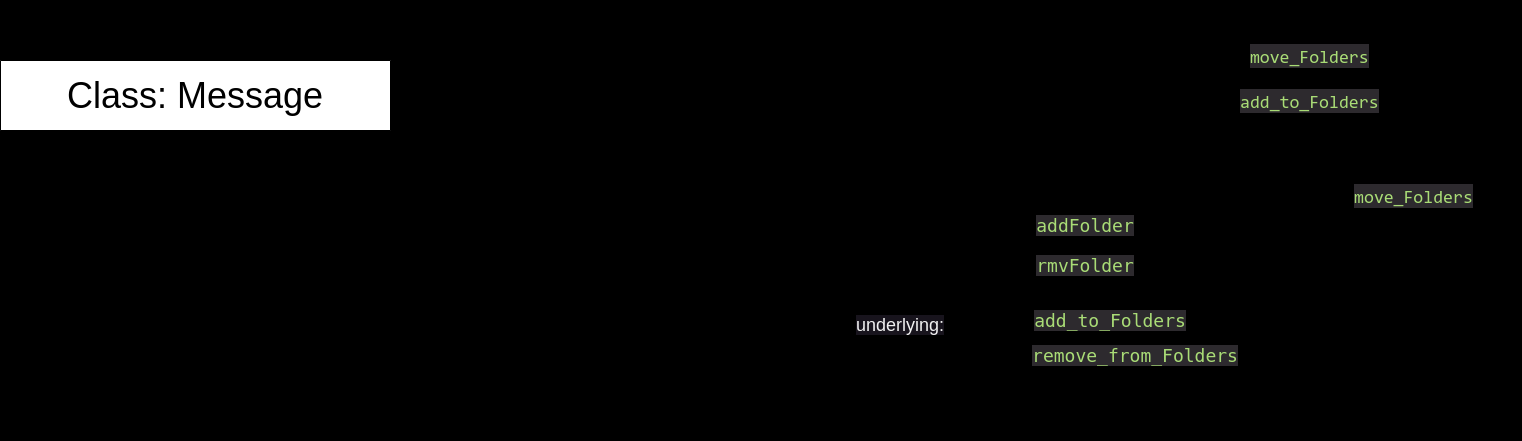
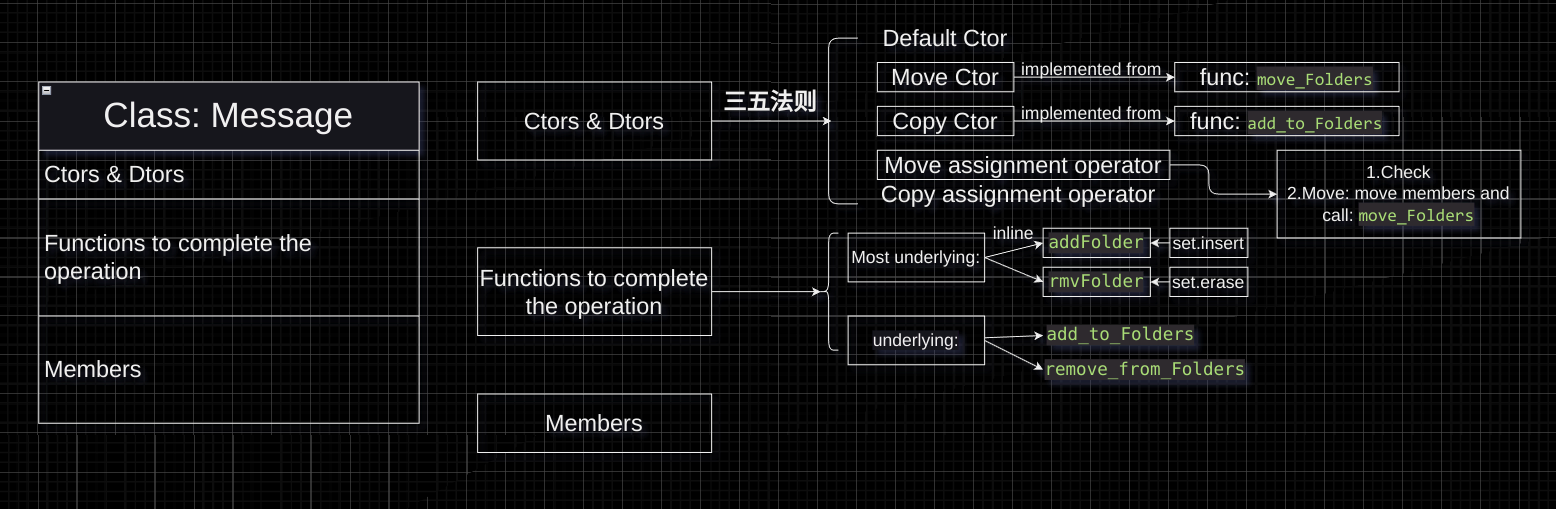
Good Morning

diff --git a/chapter13_CopyControl/Approaches/Folder.cc b/chapter13_CopyControl/Approaches/Folder.cc
@@ -1,0 +1,118 @@
+#include <iostream>
+#include "Folder.h"
+
+void Message::save(Folder &fd) {
+    folders.insert(&fd);
+    fd.addMsg(this);
+}
+
+void Message::remove(Folder &fd) {
+    folders.erase(&fd);
+    fd.rmvMsg(this);
+}
+
+// 底层添加元素函数
+void Message::add_to_Folders(const Message &ms) {
+    for(auto x : ms.folders)
+        x->addMsg(this);
+}
+
+// 底层清空函数
+void Message::remove_from_Folders() {
+    // set可能抛出异常
+    for(auto x : folders)
+        x->rmvMsg(this);
+    folders.clear();
+}
+
+// 不光要给自己成员赋值，同时也需要向Folder中添加成员
+Message::Message(const Message &rhs) :
+        content(rhs.content), folders(rhs.folders) {
+    add_to_Folders(rhs);
+}
+
+Message::~Message() {
+    remove_from_Folders();
+}
+
+// 移动操作的核心
+// Message成员函数:移动自身folders
+void Message::move_Folders(Message *msg) {
+    folders = std::move(msg->folders);
+
+    // 此操作可能抛出异常:bad_alloc
+    for(auto x : folders) {
+        x->rmvMsg(msg);
+        x->addMsg(this);
+    }
+    msg->folders.clear();
+}
+
+Message& Message::operator=(const Message &rhs) {
+    remove_from_Folders(); // clear this folder
+    content = rhs.content; // copy members
+    folders = rhs.folders;
+    add_to_Folders(rhs); // add to Folder
+    return *this;
+}
+
+// 移动赋值运算符
+Message& Message::operator=(Message &&rhs) {
+    if(this == &rhs) return *this;
+    remove_from_Folders();
+    content = std::move(rhs.content);
+    move_Folders(&rhs);
+    return *this;
+}
+
+// 两Message对象的拷贝交换
+void swap(Message &lhs, Message &rhs) {
+    using std::swap;
+    // 移除对应Folders中的成员数据
+    for(auto x : lhs.folders)
+        x->rmvMsg(&lhs);
+    for(auto x : rhs.folders)
+        x->rmvMsg(&rhs);
+    swap(lhs.folders, rhs.folders);
+    swap(lhs.content, rhs.content);
+    for(auto x : lhs.folders)
+        x->addMsg(&lhs);
+    for(auto x : rhs.folders)
+        x->addMsg(&rhs);
+}
+
+// 同时向两类中的两容器data与folders添加对象
+void Folder::save(Message &ms) {
+    data.insert(&ms);   // data加Message
+    ms.addFolder(this); // folders加Folder
+}
+
+// 同时向两类中的两容器data与folders移除对象
+void Folder::remove(Message &ms) {
+    data.erase(&ms); // data删Message
+    ms.rmvFolder(this); // folders加Folder
+}
+
+void Folder::add_to_Messages(const Folder &fd) {
+    for(auto x : fd.data)
+        x->addFolder(this);
+}
+
+void Folder::remove_from_Messages() {
+    while (!data.empty())
+        (*data.begin())->remove(*this);
+}
+
+Folder::Folder(const Folder &fd) :
+    data(fd.data) { add_to_Messages(fd); }
+
+Folder& Folder::operator=(const Folder &fd) {
+    remove_from_Messages();
+    data = fd.data;
+    add_to_Messages(fd);
+    return *this;
+}
+
+Folder::~Folder() {
+    remove_from_Messages();
+}

diff --git a/chapter13_CopyControl/Approaches/Folder.h b/chapter13_CopyControl/Approaches/Folder.h
@@ -1,0 +1,58 @@
+#ifndef CODESPACE_FOLDER_H
+#define CODESPACE_FOLDER_H
+
+#include <iostream>
+#include <set>
+
+class Message;
+class Folder {
+    friend class Message;
+public:
+    Folder(const Folder&);
+    Folder& operator=(const Folder&);
+    Folder() = default;
+    ~Folder();
+
+    void save(Message&);
+    void remove(Message&);
+
+    // 最基本单元:加inline封装
+    inline void addMsg(Message* ms) { data.insert(ms); }
+    inline void rmvMsg(Message* ms) { data.erase(ms); }
+private:
+    std::set<Message*> data;
+    void add_to_Messages(const Folder&);
+    void remove_from_Messages();
+};
+
+class Folder;
+class Message {
+    friend class Folder;
+    friend inline void swap(Message&, Message&);
+public:
+    explicit Message(const std::string& str = "") : content(str) {}
+    Message(const Message&);
+    Message(Message &&m) : content(std::move(m.content)) {
+        move_Folders(&m);
+    }
+    Message& operator=(const Message&);
+    Message& operator=(Message&&);
+    ~Message();
+
+    void save(Folder&);
+    void remove(Folder&);
+
+    // 最基本单元:加inline封装
+    inline void addFolder(Folder* folder) { folders.insert(folder); }
+    inline void rmvFolder(Folder* folder) { folders.erase(folder); }
+
+    void move_Folders(Message *msg);
+private:
+    std::string content;
+    std::set<Folder*> folders;
+    // 拷贝构造函数,拷贝赋值运算符,析构函数使用的工具函数
+    void add_to_Folders(const Message&);
+    void remove_from_Folders();
+};
+
+#endif //CODESPACE_FOLDER_H

diff --git a/chapter13_CopyControl/Expression&Rvalue.md b/chapter13_CopyControl/Expression&Rvalue.md
@@ -222,3 +222,54 @@ int main() {
 上述情况中，我们自定义了拷贝构造函数，合成移动构造函数被标记为删除，编译器不会生成
 因此，我们在 `move` 时，发生了右值转换成 `const` 左值引用的情况
 
+在移动构造函数中，你需要执行以下操作：
+
+从被移动对象中获取资源的指针或句柄：这可以是指针、文件描述符、动态分配的内存等。
+
+将资源的所有权从被移动对象中转移：你需要将资源的指针或句柄从被移动对象中移除，以确保被移动对象不再拥有资源。
+
+将资源的所有权转移到目标对象：你需要将资源的指针或句柄移动到目标对象中，确保目标对象拥有资源的所有权。
+
+清理被移动对象的状态：你需要在移动构造函数中清理被移动对象的状态，以确保它处于有效但不再拥有资源的状态。这可能包括释放动态分配的内存、关闭文件句柄等操作。
+
+## 移动赋值运算符=
+
+在对象内部重载移动赋值运算符：
+
+```c++
+struct Obj {
+    Obj& operator=(Obj &&rhs) noexcept {
+        if(this == &rhs) return *this;
+        this->str_ = rhs.str_;
+        rhs.str_.clear();
+        return *this;
+    }
+    std::string str_;
+}
+```
+
+之后便可以对两对象之间采用 `a1 = std::move(a2)` 操作。
+此时 `Obj` 的拷贝运算符会被显式删除，除非手动编写拷贝运算符。
+
+## Rules: Three & Five
+
++ 三之法则:`拷贝构造函数`，`拷贝operator`，`析构函数`。不含移动操作
++ 五之法则:三之法则的定义会影响 `移动构造函数` 和 `移动赋值运算符`，所以需要手动为其定义
+
+### Rule of Three
+
+当一个类需要 `用户定义的析构函数` or `用户定义的拷贝构造函数` or `用户定义的拷贝赋值运算符` 其中之一时，
+三者必须同时定义，确保对非成员变量的精确管理
+
+### Rule of Five
+
+在执行 Rule of Three 之后，会影响到 `移动构造函数` 和 `移动赋值运算符` 的隐式定义，所以我们必须为其手动定义对应函数
+
+## 设计一个消息管理类 `Folder`
+
+![Class:Message](Pics/Message.png)
+
+在设计 `Folder` 的过程中，我们从小到大，将基础操作包裹进操作单元：函数
+不同层级的函数有不同的类别：最底层的加 `inline` 优化，次底层的作为类的 `private` 成员函数来管理类成员，最表层的负责调用和创设。
+
+启示：设计类时最好头脑清楚，利用思维导图分析清楚
